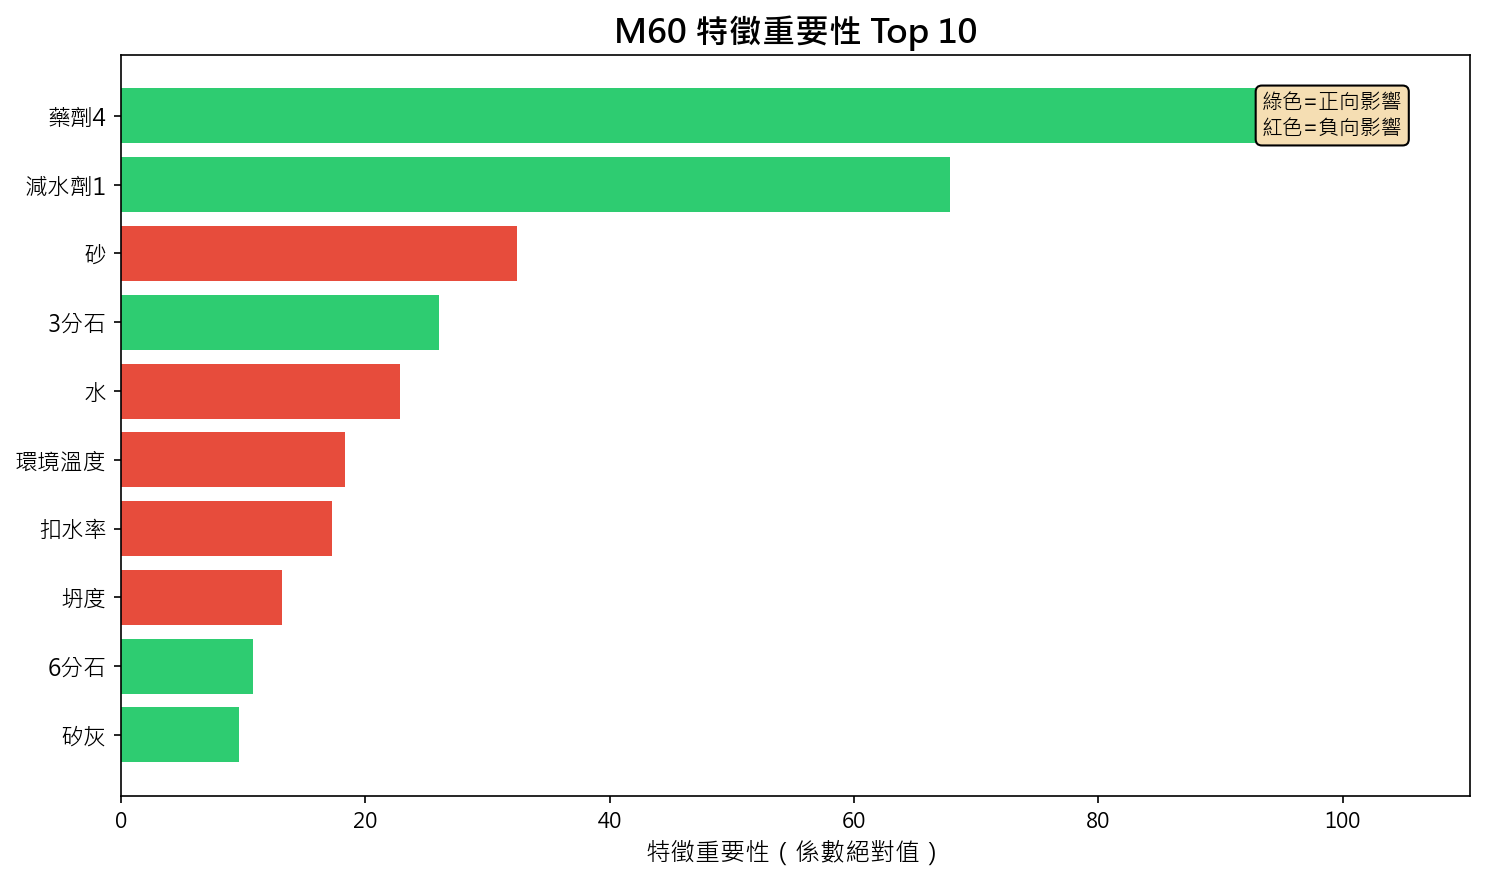
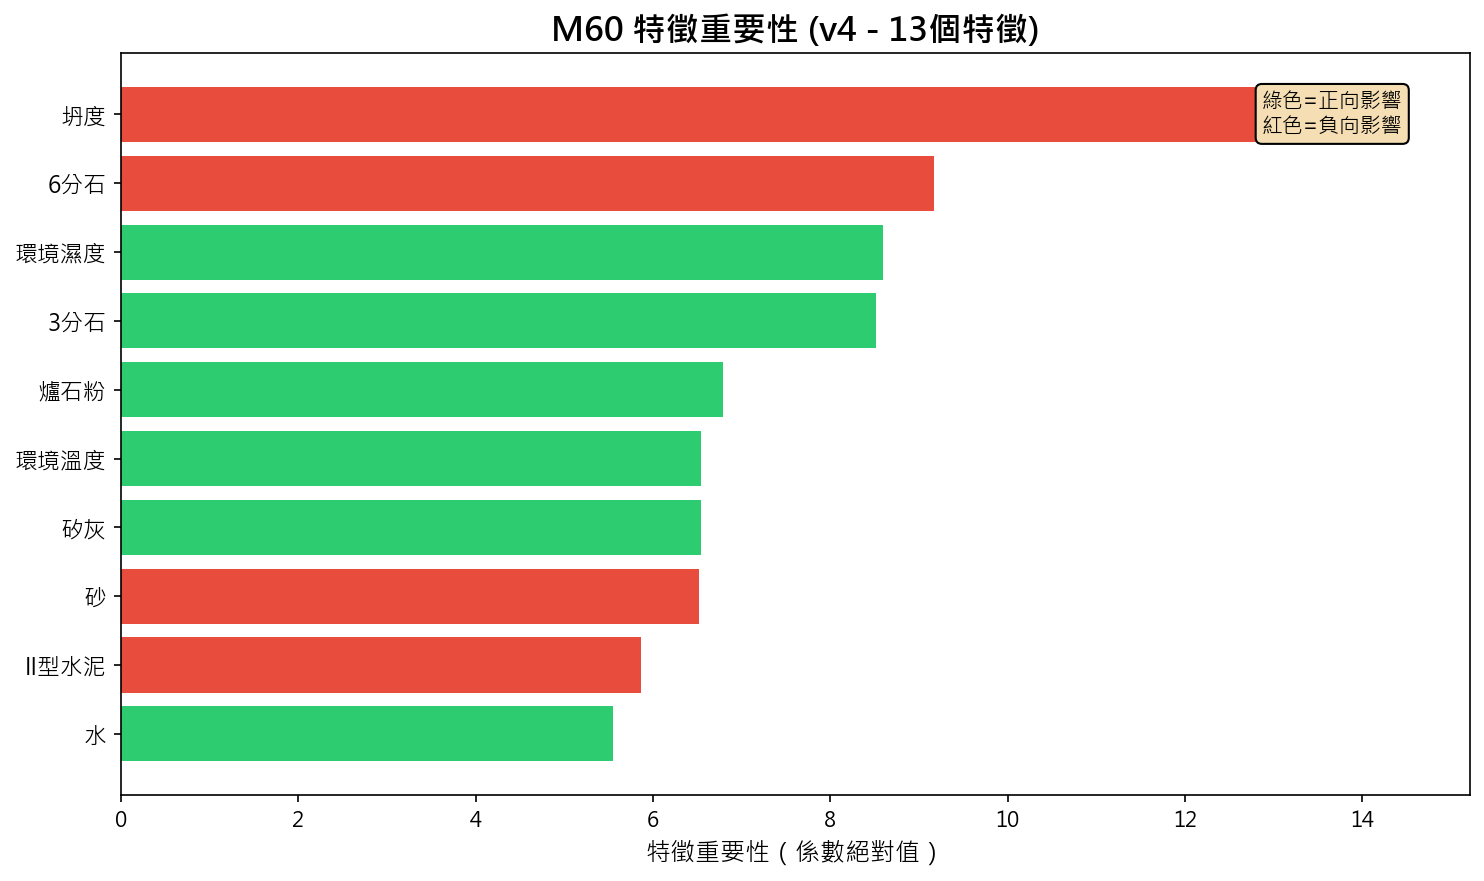
Update to v4: remove drug features, 13 core features

diff --git a/README.md b/README.md
@@ -1,6 +1,7 @@
 # 🎯 S60 & M60 混凝土強度預測模型訓練成果報告
 
 > **更新日期**: 2026-02-04  
+> **版本**: v4（移除藥劑特徵）  
 > **專案目標**: 建立 S60/M60 混凝土 28 天抗壓強度預測模型
 
 ---
@@ -13,8 +14,8 @@
 
 | 模型 | 樣本數 | R² | MAE (kgf/cm²) | 狀態 |
 |:---|---:|---:|---:|:---|
-| **S60** | 46 | **0.360** | 28 | ✅ 可用 |
-| **M60** | 52 | **0.206** | 25 | ✅ 可用 |
+| **S60** | 46 | **0.421** | 29 | ✅ 可用 |
+| **M60** | 52 | -0.029 | 28 | ⚠ 待改善 |
 
 ---
 
@@ -22,7 +23,7 @@
 
 ![模型效能比較](model_comparison.png)
 
-> **說明**：S60 模型 R²=0.360，M60 模型 R²=0.206，兩者皆具有預測能力。S60 表現較佳，預測誤差約 28 kgf/cm²。
+> **說明**：S60 模型 R²=0.421，具有良好預測能力，MAE=29 kgf/cm²。M60 模型 R²≈0，建議增加樣本數以提升效能。
 
 ---
 
@@ -64,17 +65,18 @@
 
 ## 🔧 特徵工程
 
-### 使用特徵 (17 個)
+### 使用特徵 (13 個)
 
 | 類別 | 特徵 | 說明 |
 |:---|:---|:---|
 | **骨材** | 耗用骨材1~3 | 砂、3分石、6分石 |
 | **水** | 耗用水 | 拌合用水量 |
 | **膠結材** | 耗用泥料1~4 | II型水泥、矽灰、鋁泥、爐石粉 |
-| **添加劑** | 耗用藥劑1~4 | 減水劑、緩凝劑等 |
 | **扣水率** | 表面水骨材1 | 骨材含水校正 (%) |
 | **品質** | 坍度、混凝土溫度 | 新拌混凝土指標 |
 | **環境** | 平均溫度、平均濕度 | 氣象環境因子 |
+
+> **註**：v4 版本移除了藥劑1~4 特徵（減水劑、緩凝劑），因其用量標準化，對預測貢獻不大。
 
 ---
 
@@ -86,7 +88,7 @@
 
 | 項目 | 選擇 | 原因 |
 |:---|:---|:---|
-| **演算法** | Lasso Regression | 自動特徵選擇、防止過擬合 |
+| **演算法** | Lasso / ElasticNet | 自動特徵選擇、防止過擬合 |
 | **驗證方式** | LOOCV | 充分利用每筆資料 |
 | **正則化** | α = 0.1 | 平衡偏差與變異 |
 
@@ -104,7 +106,7 @@
 
 ![S60 預測散佈圖](S60_prediction_scatter.png)
 
-> **說明**：預測值與實際值分布於對角線附近，多數樣本落在 ±30 kgf/cm² 範圍內，預測效果良好。
+> **說明**：預測值與實際值分布於對角線附近，R²=0.421，預測效果良好。
 
 ---
 
@@ -114,13 +116,13 @@
 
 ![M60 特徵重要性](M60_feature_importance_v2.png)
 
-> **說明**：M60 的關鍵因素與 S60 不同，坍度呈負向影響（坍度過大會降低強度），矽灰與藥劑則有正向效果。
+> **說明**：M60 的關鍵因素與 S60 不同。目前模型解釋力較低，需要更多樣本改善。
 
 ### 預測效果
 
 ![M60 預測散佈圖](M60_prediction_scatter.png)
 
-> **說明**：M60 模型 R²=0.206，預測能力較 S60 略低，部分樣本離散度較大，建議增加測試樣本以提升準確度。
+> **說明**：M60 模型 R²≈0，預測能力不足。建議增加測試樣本、加入製程特徵以提升準確度。
 
 ---
 
@@ -141,9 +143,8 @@
 | 排名 | 因子 | 相關係數 | 影響方向 |
 |:---:|:---|---:|:---|
 | 1 | **坍度** | -0.325 | ↓ 負向 |
-| 2 | **藥劑4** | +0.286 | ↑ 正向 |
-| 3 | **矽灰** | +0.268 | ↑ 正向 |
-| 4 | **環境溫度** | +0.259 | ↑ 正向 |
+| 2 | **矽灰** | +0.268 | ↑ 正向 |
+| 3 | **環境溫度** | +0.259 | ↑ 正向 |
 
 ---
 
@@ -176,10 +177,10 @@
 
 | 檔案 | 說明 |
 |:---|:---|
-| `models/model_s60_v3.pkl` | S60 預測模型 |
-| `models/model_m60_v3.pkl` | M60 預測模型 |
-| `models/scaler_s60_v3.pkl` | S60 標準化器 |
-| `models/scaler_m60_v3.pkl` | M60 標準化器 |
+| `models/model_s60_v4.pkl` | S60 預測模型 |
+| `models/model_m60_v4.pkl` | M60 預測模型 |
+| `models/scaler_s60_v4.pkl` | S60 標準化器 |
+| `models/scaler_m60_v4.pkl` | M60 標準化器 |
 
 ---
 
@@ -188,9 +189,10 @@
 | 版本 | 日期 | 說明 |
 |:---|:---|:---|
 | v1 | 2026-02-03 | 初版：僅用 X1 強度，部分特徵 |
-| v2 | 2026-02-04 | 修正版：X1~X3 平均強度，完整 17 特徵 |
-| **v3** | **2026-02-04** | **單位正確：kgf/cm²，模型重新訓練，加入圖表** |
+| v2 | 2026-02-04 | X1~X3 平均強度，完整 17 特徵 |
+| v3 | 2026-02-04 | 單位正確：kgf/cm²，模型重新訓練 |
+| **v4** | **2026-02-04** | **移除藥劑特徵，13 個核心特徵** |
 
 ---
 
-*報告產生時間: 2026-02-04 11:15*
+*報告產生時間: 2026-02-04 11:35*
